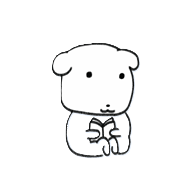
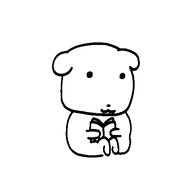
Add files via upload

Changed region(s): [[0.25, 0.2188, 0.75, 0.8438], [0.4375, 0.375, 0.5, 0.4062]]

diff --git a/index.html b/index.html
@@ -130,11 +130,18 @@
   .sheet-body h2 { font-size: 22px; margin: 0 0 6px; }
   .err { color: var(--danger-text); font-size: 14px; margin: 10px 0 0; }
   .mascot { display: block; border-radius: 18px; margin-bottom: 12px; }
+  .search { width: 100%; min-height: 48px; margin: 8px 0; padding: 0 14px; border: 0; border-radius: 12px; background: var(--bg); }
+  .filters { display: flex; gap: 6px; overflow-x: auto; padding-bottom: 6px; scrollbar-width: none; }
+  .fchip { flex: none; min-height: 36px; padding: 0 12px; border: 0; border-radius: 18px; background: var(--bg); font-size: 14px; }
+  .fchip[aria-pressed="true"] { background: var(--primary); color: #fff; font-weight: 600; }
+  .prow { display: flex; justify-content: space-between; align-items: baseline; gap: 8px; }
+  .pmemo { font-size: 15px; margin-top: 4px; }
+  a.textbtn { display: inline-flex; align-items: center; text-decoration: none; }
 </style>
 </head>
 <body>
 <header>
-  <h1>가나디 비서<small>v12</small></h1>
+  <h1>가나디 비서<small>v13</small></h1>
   <button id="gear" class="icon" aria-label="설정">⚙</button>
 </header>
 
@@ -185,7 +192,9 @@ const KINDS = {
   카페_발주할일: '📦 발주할 일', 카페_발주창: '⏰ 발주창', 카페_케이크예약: '🎂 케이크 예약',
   카페_기타: '☕ 카페 기타', 개인약속: '🙂 개인 약속', 할일: '✅ 할 일', 맛집: '🍽 맛집', 맛집_후기: '⭐ 맛집 후기',
 };
-const LABELS = { kind: '종류', title: '제목', date: '날짜', time: '시간', end: '끝 시간', repeat: '반복', place: '장소', memo: '메모', rating: '별점' };
+const LABELS = { kind: '종류', title: '제목', date: '날짜', time: '시간', end: '끝 시간', repeat: '반복', place: '장소', memo: '메모', rating: '별점', category: '분류', food: '음식' };
+// 맛집 분류 (Code.gs의 CATEGORIES와 같아야 함)
+const CATEGORIES = ['한식', '중식', '일식', '양식', '아시안', '카페·디저트', '술집', '분식', '기타'];
 const W = ['일', '월', '화', '수', '목', '금', '토'];
 const $ = id => document.getElementById(id);
 const chat = $('chat'), input = $('text');
@@ -195,7 +204,7 @@ const store = {
   set: (k, v) => { try { localStorage.setItem(k, v); } catch {} },
 };
 
-const NEED_SERVER = 's11'; // Code.gs의 SERVER_VERSION과 같아야 함
+const NEED_SERVER = 's12'; // Code.gs의 SERVER_VERSION과 같아야 함
 let warnedVersion = false;
 let busy = false;
 let turns = [];        // AI에게 보낼 최근 대화 (앱을 닫으면 사라짐)
@@ -237,7 +246,7 @@ const stars = r => {
 };
 
 function whenText(it) {
-  if (it.kind === '맛집') return it.place || '장소 없음';
+  if (it.kind === '맛집') return `${[it.category, it.food].filter(Boolean).join('/') || '분류 없음'} · ${it.place || '지역 없음'}`;
   if (it.kind === '맛집_후기') return stars(+it.rating) + (it.date ? ` · ${day(it.date)} 다녀옴` : '');
   if (it.kind === '할일') return it.date ? '마감 ' + day(it.date) : '날짜 없음';
   if (!it.date) return '날짜 없음 → 할 일로 저장돼요';
@@ -304,6 +313,8 @@ async function act(btn, busyText, fn) {
   setBusy(true);
   try {
     await fn();
+    // 맛집 수첩처럼 계속 쓰는 카드는 성공 후에도 다시 쓸 수 있게 (저장·삭제 카드는 fn 안에서 이미 잠김)
+    if (card && card.classList.contains('live')) ctrls.forEach(x => { x.disabled = false; });
   } catch (e) {
     btn.textContent = old;
     if (card && card.classList.contains('live')) ctrls.forEach(x => { x.disabled = false; });
@@ -335,9 +346,13 @@ async function send(text, fromInput) {
   const slow = setTimeout(() => { typing.textContent = '가나디가 열심히 찾고 있어요…'; }, 15000);
   setBusy(true);
   try {
-    const r = await call({ action: 'analyze', text, shared, history: prev });
+    // [저장한 맛집] 버튼은 AI 없이 바로 전체 목록
+    const r = !fromInput && text === '저장한 맛집'
+      ? await call({ action: 'places' })
+      : await call({ action: 'analyze', text, shared, history: prev });
     typing.remove();
-    if (r.answer) say(ko(r.answer));
+    if (r.places) placesCard(r.places, r.query || '');
+    else if (r.answer) say(ko(r.answer));
     else if (r.candidates) deleteCard(r.candidates);
     else if (r.edits) editCard(r.edits);
     else if (r.items && r.items.length) saveCard(r.items);
@@ -359,13 +374,14 @@ async function send(text, fromInput) {
 // ───── 저장 확인 카드 ─────
 function fieldsFor(kind) {
   if (kind === '할일') return ['kind', 'title', 'date', 'memo'];
-  if (kind === '맛집') return ['kind', 'title', 'place', 'memo'];
-  if (kind === '맛집_후기') return ['kind', 'title', 'rating', 'date', 'memo'];
+  if (kind === '맛집') return ['kind', 'title', 'category', 'food', 'place', 'memo'];
+  if (kind === '맛집_후기') return ['kind', 'title', 'rating', 'category', 'food', 'date', 'memo'];
   return ['kind', 'title', 'date', 'time', 'end', 'repeat', 'place', 'memo'];
 }
 function labelFor(k, kind) {
   if (k === 'date' && kind === '할일') return '마감일';
   if (k === 'date' && kind === '맛집_후기') return '다녀온 날';
+  if (k === 'place' && (kind === '맛집' || kind === '맛집_후기')) return '지역';
   return LABELS[k];
 }
 function control(k, it, changed) {
@@ -374,6 +390,7 @@ function control(k, it, changed) {
   if (k === 'kind') options(Object.entries(KINDS));
   else if (k === 'repeat') options([['', '없음'], ['매일', '매일'], ['매주', '매주'], ['매월', '매월']]);
   else if (k === 'rating') options([['', '없음'], ...[1, 2, 3, 4, 5].map(n => [String(n), '★'.repeat(n)])]);
+  else if (k === 'category') options([['', '분류 없음'], ...CATEGORIES.map(c => [c, c])]);
   else { c = el('input'); c.type = k === 'date' ? 'date' : k === 'time' || k === 'end' ? 'time' : 'text'; }
   c.value = it[k] || '';
   c[c.tagName === 'SELECT' ? 'onchange' : 'oninput'] = () => { it[k] = c.value; changed(k); };
@@ -534,6 +551,104 @@ function editCard(cands) {
     done: n => say(`${n}개 바꿨어요.`),
   });
   remember('[수정 후보] ' + cands.map((c, i) => `${i + 1}. ${ko(c.before)} → ${ko(c.after)}`).join(' / '));
+}
+
+// ───── 맛집 수첩 카드: 검색·분류 필터 + 줄마다 [지도] [수정] [지우기] (AI 없이 바로) ─────
+const PLACE_FIELDS = [['title', '가게 이름'], ['place', '지역'], ['category', '분류'], ['food', '음식'],
+  ['rating', '별점'], ['date', '다녀온 날'], ['memo', '메모']];
+
+function placesCard(list, query) {
+  if (!list.length) {
+    return say(query ? `'${query}'에 맞는 맛집을 찾지 못했어요.` : '맛집 수첩이 비어 있어요. 가게 이름을 말하면 저장해 둘게요.');
+  }
+  const head = el('div', 'card-title'), body = el('div');
+  const search = el('input', 'search');
+  search.type = 'search';
+  search.placeholder = '이름·지역·음식·메모로 찾기';
+  search.setAttribute('aria-label', '맛집 검색');
+  let cat = '';
+  const cats = ['전체', ...CATEGORIES.filter(c => list.some(p => p.category === c))];
+  if (list.some(p => !p.category)) cats.push('분류 없음');
+  const filters = row('filters', cats.map(c => {
+    const b = button('fchip', c);
+    b.setAttribute('aria-pressed', String(c === '전체'));
+    b.onclick = () => {
+      cat = c === '전체' ? '' : c;
+      filters.querySelectorAll('.fchip').forEach(x => x.setAttribute('aria-pressed', String(x === b)));
+      render();
+    };
+    return b;
+  }));
+  const render = () => {
+    const q = search.value.trim().toLowerCase();
+    const shown = list.filter(p => (!cat || (cat === '분류 없음' ? !p.category : p.category === cat)) &&
+      (!q || [p.name, p.area, p.food, p.category, p.memo].join(' ').toLowerCase().includes(q)));
+    head.textContent = `🍽 ${query ? `'${query}' 맛집` : '맛집 수첩'} ${shown.length}곳`;
+    body.replaceChildren(...(shown.length ? shown.map(p => placeView(p, list, render)) : [el('div', 'hint', '찾는 맛집이 없어요.')]));
+  };
+  search.oninput = render;
+  render();
+  add(row('card live', [head, search, ...(cats.length > 2 ? [filters] : []), body]));
+  remember(`[맛집 목록${query ? ` '${query}'` : ''}] ` + list.slice(0, 30).map(p => p.name).join(', '));
+}
+
+function placeView(p, list, rerender) {
+  const meta = [[p.category, p.food].filter(Boolean).join('/'), p.area, p.visited && p.visited + ' 다녀옴'].filter(Boolean).join(' · ');
+  const map = el('a', 'textbtn', '지도');
+  map.href = p.link || mapLink({ place: p.area, title: p.name });
+  map.target = '_blank';
+  map.rel = 'noopener';
+  const editBtn = button('textbtn', '수정'), delBtn = button('textbtn', '지우기');
+  const actions = row('row-btns', [map, editBtn, delBtn]);
+
+  // [수정]: 칸을 직접 고쳐 저장 (빈칸으로 두면 지워짐)
+  const draft = { title: p.name, place: p.area, category: p.category, food: p.food, rating: p.rating, date: p.visited, memo: p.memo };
+  const editor = el('div');
+  editor.hidden = true;
+  PLACE_FIELDS.forEach(([k, label]) => {
+    const id = 'f' + (++uid), lab = el('label', '', label);
+    lab.htmlFor = id;
+    const c = control(k, draft, () => {});
+    c.id = id;
+    editor.append(row('field', [lab, c]));
+  });
+  const saveBtn = button('btn primary', '저장하기'), closeBtn = button('btn secondary', '닫기');
+  editor.append(row('actions', [closeBtn, saveBtn]));
+  editBtn.onclick = () => { editor.hidden = !editor.hidden; if (!editor.hidden) editor.scrollIntoView({ block: 'nearest' }); };
+  closeBtn.onclick = () => { editor.hidden = true; };
+  saveBtn.onclick = () => {
+    if (!String(draft.title || '').trim()) return bubble('bot', '가게 이름을 넣어 주세요.');
+    act(saveBtn, '저장하는 중…', async () => {
+      const { count } = await call({ action: 'update', targets: [{ type: 'place', row: p.row, name: p.name, exact: true, changes: { ...draft } }] });
+      if (!count) throw new Error('이미 바뀌었거나 지워진 것 같아요. 맛집 목록을 다시 불러와 주세요.');
+      Object.assign(p, { name: draft.title.trim(), area: draft.place || '', category: draft.category || '', food: draft.food || '',
+        rating: draft.rating || '', visited: draft.date || '', memo: draft.memo || '', link: mapLink({ place: draft.place || '', title: draft.title.trim() }) });
+      bubble('note', `✏ ${p.name} 고쳤어요.`);
+      rerender();
+    });
+  };
+
+  // [지우기]: 한 번 더 물어본 뒤 지움
+  delBtn.onclick = () => {
+    const no = button('btn secondary', '취소'), yes = button('btn danger', '지우기');
+    const confirmRow = row('', [el('div', 'hint', `${p.name}을(를) 지울까요?`), row('actions', [no, yes])]);
+    actions.replaceWith(confirmRow);
+    no.onclick = () => confirmRow.replaceWith(actions);
+    yes.onclick = () => act(yes, '지우는 중…', async () => {
+      const { count } = await call({ action: 'delete', targets: [{ type: 'place', row: p.row, name: p.name }] });
+      if (!count) throw new Error('이미 지워진 것 같아요. 맛집 목록을 다시 불러와 주세요.');
+      list.splice(list.indexOf(p), 1);
+      bubble('note', `🗑 ${p.name} 지웠어요. 지운 내용은 구글 시트의 [기록] 탭에 남아 있어요.`);
+      rerender();
+    });
+  };
+
+  return row('item', [
+    row('prow', [el('div', 'title', p.name), el('div', 'when', p.rating ? stars(+p.rating) : '')]),
+    el('div', 'when', meta || '분류·지역 없음'),
+    ...(p.memo ? [el('div', 'pmemo', p.memo)] : []),
+    actions, editor,
+  ]);
 }
 
 // ───── 입력창 ─────
